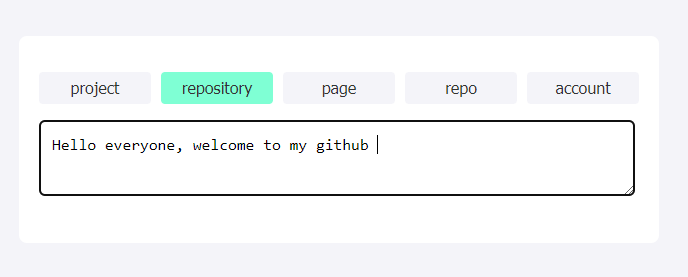
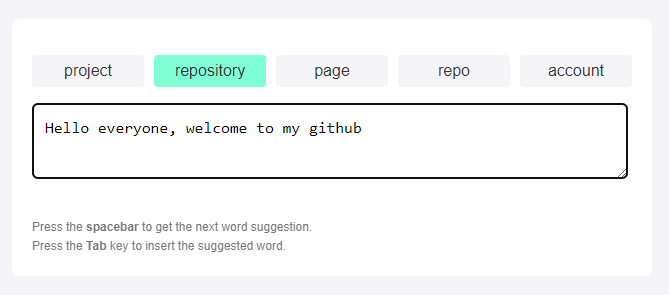
chore: Update Roberta tokenizer and model, improve CSS styling and usability, and refactor code

diff --git a/static/style.css b/static/style.css
@@ -1,5 +1,5 @@
 body {
-    font-family: 'Tahoma', sans-serif;
+    font-family: 'Arial', sans-serif;
     background-color: #f4f4f9;
     color: #333;
     margin: 0;
@@ -38,6 +38,13 @@ textarea {
     line-height: 1.5; /* Improve readability with better line height */
     resize: vertical; /* Allow users to resize the height of the textarea */
     transition: border-color 0.3s ease, height 0.3s ease; /* Smooth transition for border color and height change */
+}
+
+#information {
+    color:#777;
+    font-size: 12px; /* Add some space below headers */
+    margin-bottom: 0px; /* Add some space below headers */
+    padding: 0px;
 }
 
 

diff --git a/static/index.html b/static/index.html
@@ -12,6 +12,10 @@
         onkeyup="checkSpace(event)"
         onkeydown="checkTab(event)"
       ></textarea>
+      <p id="information">
+        Press the <strong>spacebar</strong> to get the next word suggestion.<br />
+        Press the <strong>Tab</strong> key to insert the suggested word.
+      </p>
     </div>
     <script src="/static/script.js"></script>
   </body>

diff --git a/readme.md b/readme.md
@@ -10,6 +10,7 @@ This is a FastAPI application that provides text prediction functionality using 
 ```bash
 uvicorn main:app --reload
 ```
+
 The application will be available at `http://127.0.0.1:8000`
 
 ## Contributing
@@ -19,4 +20,4 @@ Contributions are welcome! Please open an issue or submit a pull request for any
 ## Acknowledgments
 
 - [Hugging Face](https://huggingface.co/) for providing the Transformers library.
-- [FastAPI](https://fastapi.tiangolo.com/) for creating an easy-to-use web framework.
+- [FastAPI](https://fastapi.tiangolo.com/) for creating an easy-to-use web framework.![alt text](image.png)
